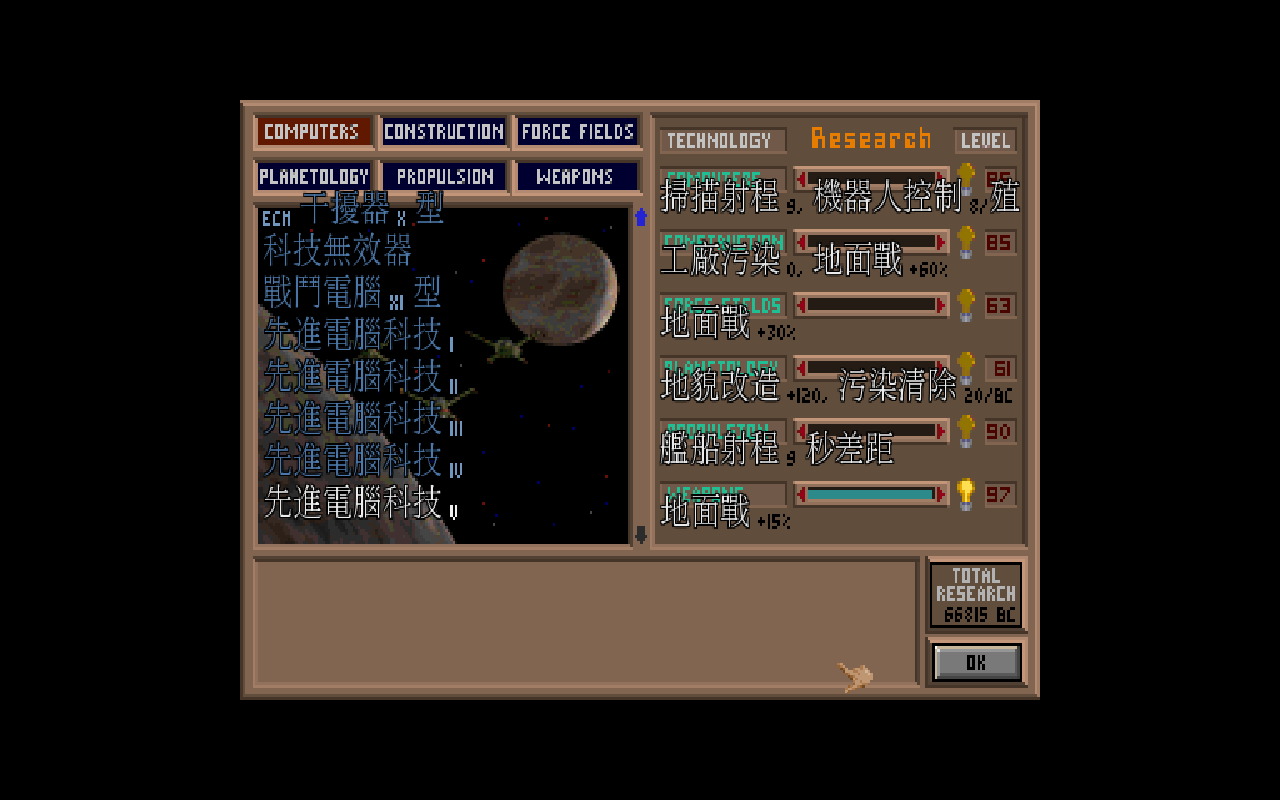
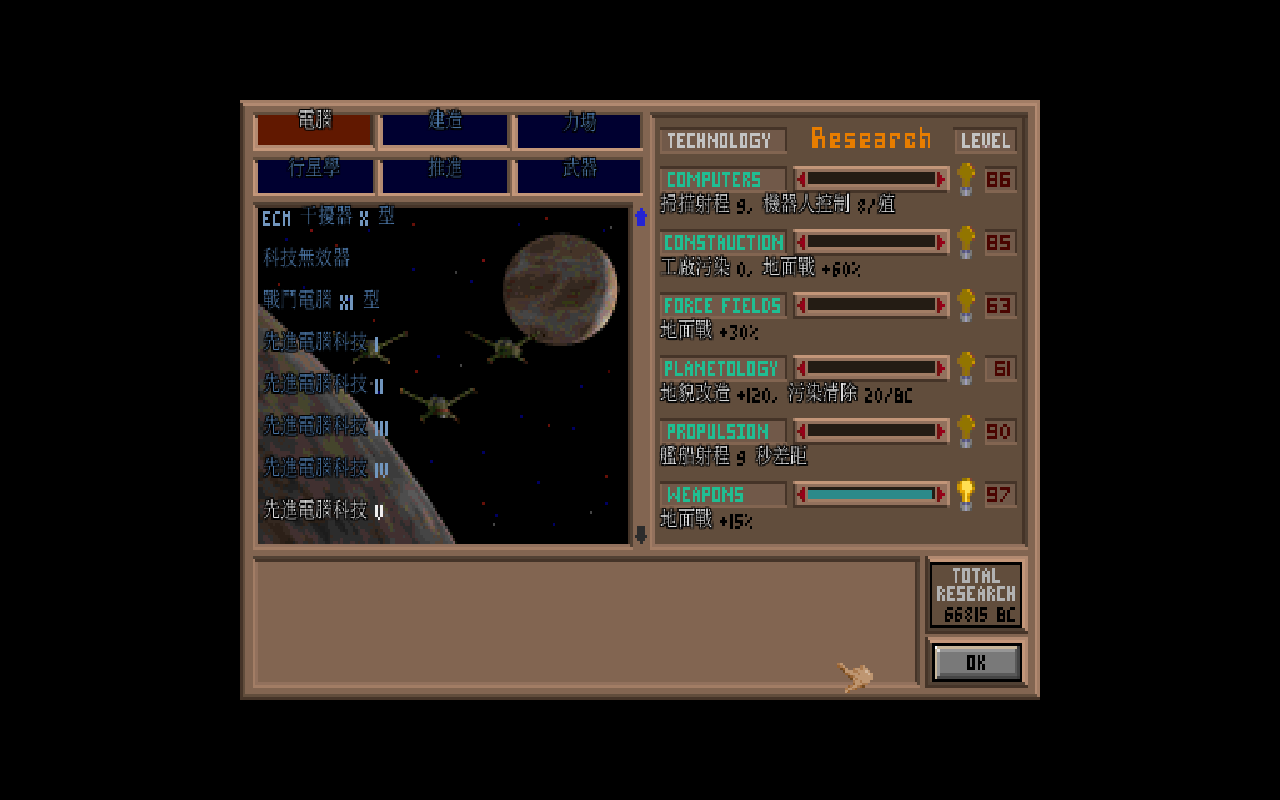
外交/新聞訊息覆蓋引擎 + 研究 tab 中文 + 科技描述顯示
訊息覆蓋(diplomat.lbx/eventmsg.lbx,含動態 token):
- strtr 加 \xNN 跳脫解碼(token byte >=0x80 在 TSV 以 \xNN 表示)
- game_audience/game_news 訊息迴圈:hook strtr + UTF-8 awareness
  (UTF-8 中文 3-byte 整段複製,避免續位元組被當 token)
- tools/dump_messages.py:萃取 diplomat(417 去重)/eventmsg(72 去重)

研究畫面(patch 06):
- 六大領域 tab 蓋色疊中文(電腦/建造/力場/行星學/推進/武器)
- 科技描述經 strtr 覆蓋層顯示中文(探描射程/地貌改造…)

(訊息譯文 diplomat/eventmsg _zh.tsv 由 agent 翻譯中,完成後另入庫)

Changed region(s): [[0.1875, 0.125, 0.8125, 0.6562], [0.5, 0.375, 0.7812, 0.5], [0.5, 0.5312, 0.7188, 0.6562]]

diff --git a/tools/dump_messages.py b/tools/dump_messages.py
@@ -1,0 +1,48 @@
+#!/usr/bin/env python3
+# -*- coding: utf-8 -*-
+"""從 diplomat.lbx(item1,外交)/ eventmsg.lbx(item0,新聞)萃取訊息。
+每筆固定 0xc8 byte,字串 null 結尾,含 token(>=0x80)與控制碼(<0x20,如色碼 \\x01)。
+輸出 TSV: escaped_key \\t escaped_key(第二欄供翻譯;token/控制碼以 \\xNN 表示供 strtr 還原)。
+去重:相同字串只輸出一次。"""
+import struct, sys
+
+REC_LEN = 0xc8
+
+def lbx_items(data):
+    n = struct.unpack_from("<H", data, 0)[0]
+    offs = [struct.unpack_from("<I", data, 8 + 4 * i)[0] for i in range(n + 1)]
+    return [data[offs[i]:offs[i + 1]] for i in range(n)]
+
+def escape(bs):
+    out = []
+    for b in bs:
+        if 0x20 <= b < 0x7f and b not in (0x5c, 0x09):  # 可印 ASCII(排除 \ 與 tab)
+            out.append(chr(b))
+        else:
+            out.append("\\x%02x" % b)
+    return "".join(out)
+
+def main(path, item_idx):
+    data = open(path, "rb").read()
+    blob = lbx_items(data)[item_idx][4:]   # 跳過 2 byte num + 2 byte size
+    nrec = len(blob) // REC_LEN
+    seen = set()
+    n = 0
+    for i in range(nrec):
+        rec = blob[i * REC_LEN:(i + 1) * REC_LEN]
+        z = rec.find(b"\x00")
+        s = rec[:z] if z >= 0 else rec
+        s = s.rstrip(b"\x00")
+        if not s:
+            continue
+        esc = escape(s)
+        if esc in seen:
+            continue
+        seen.add(esc)
+        print(f"{esc}\t{esc}")
+        n += 1
+    sys.stderr.write(f"# {n} unique messages from {path} item {item_idx}\n")
+
+if __name__ == "__main__":
+    # 用法:dump_messages.py <lbx> <item_idx>
+    main(sys.argv[1], int(sys.argv[2]))